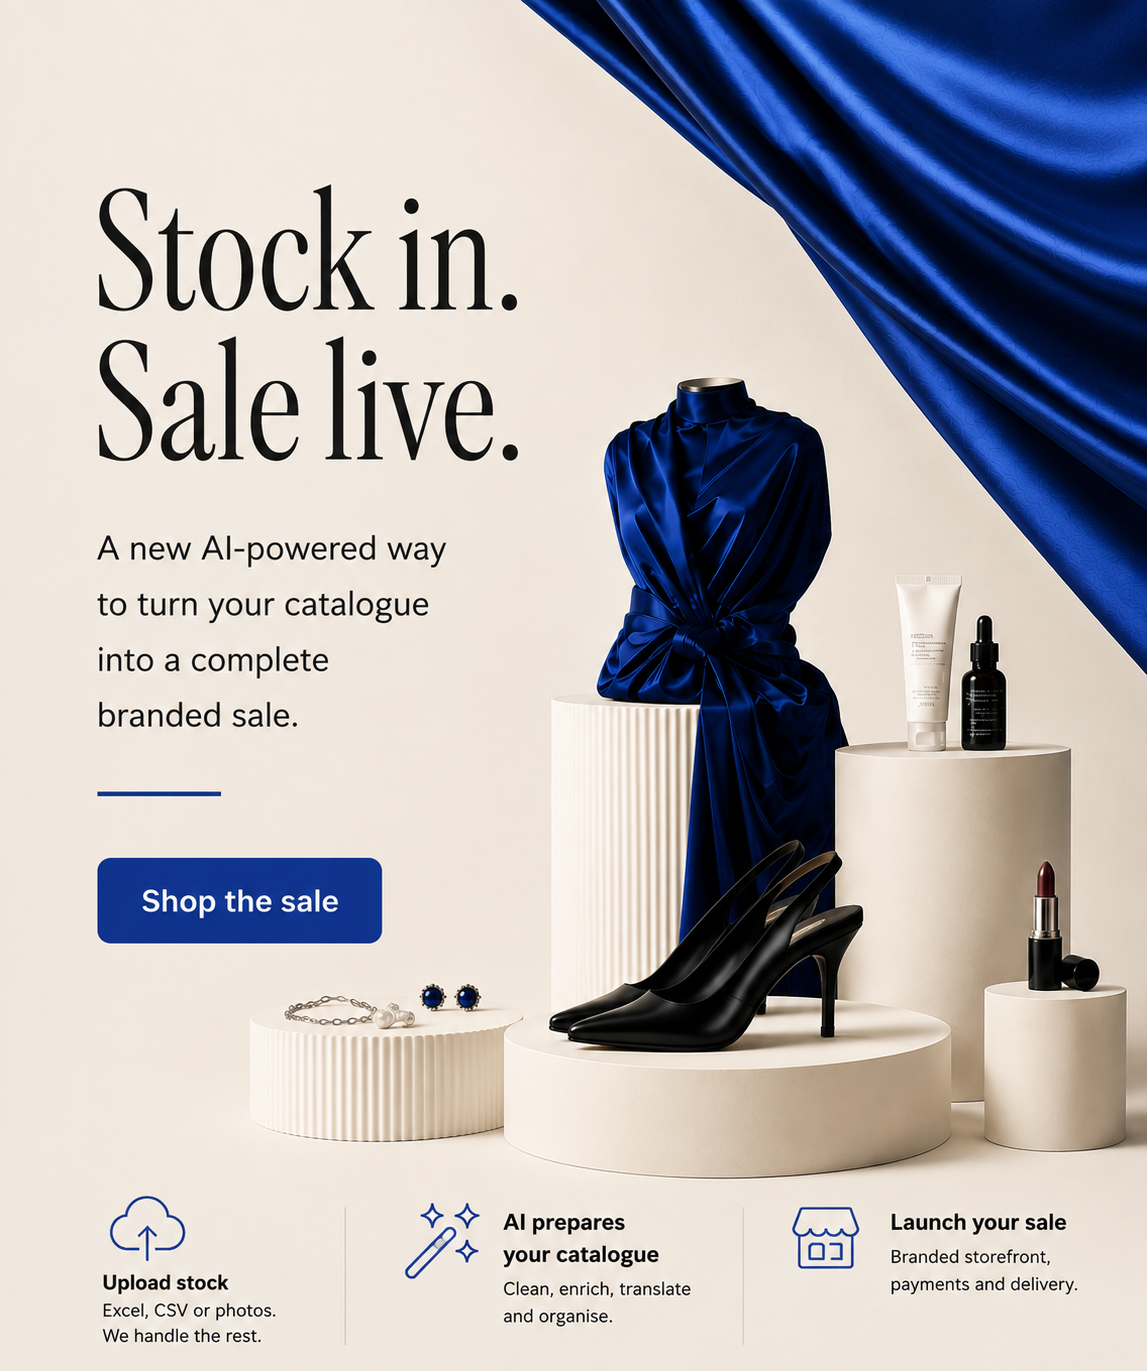
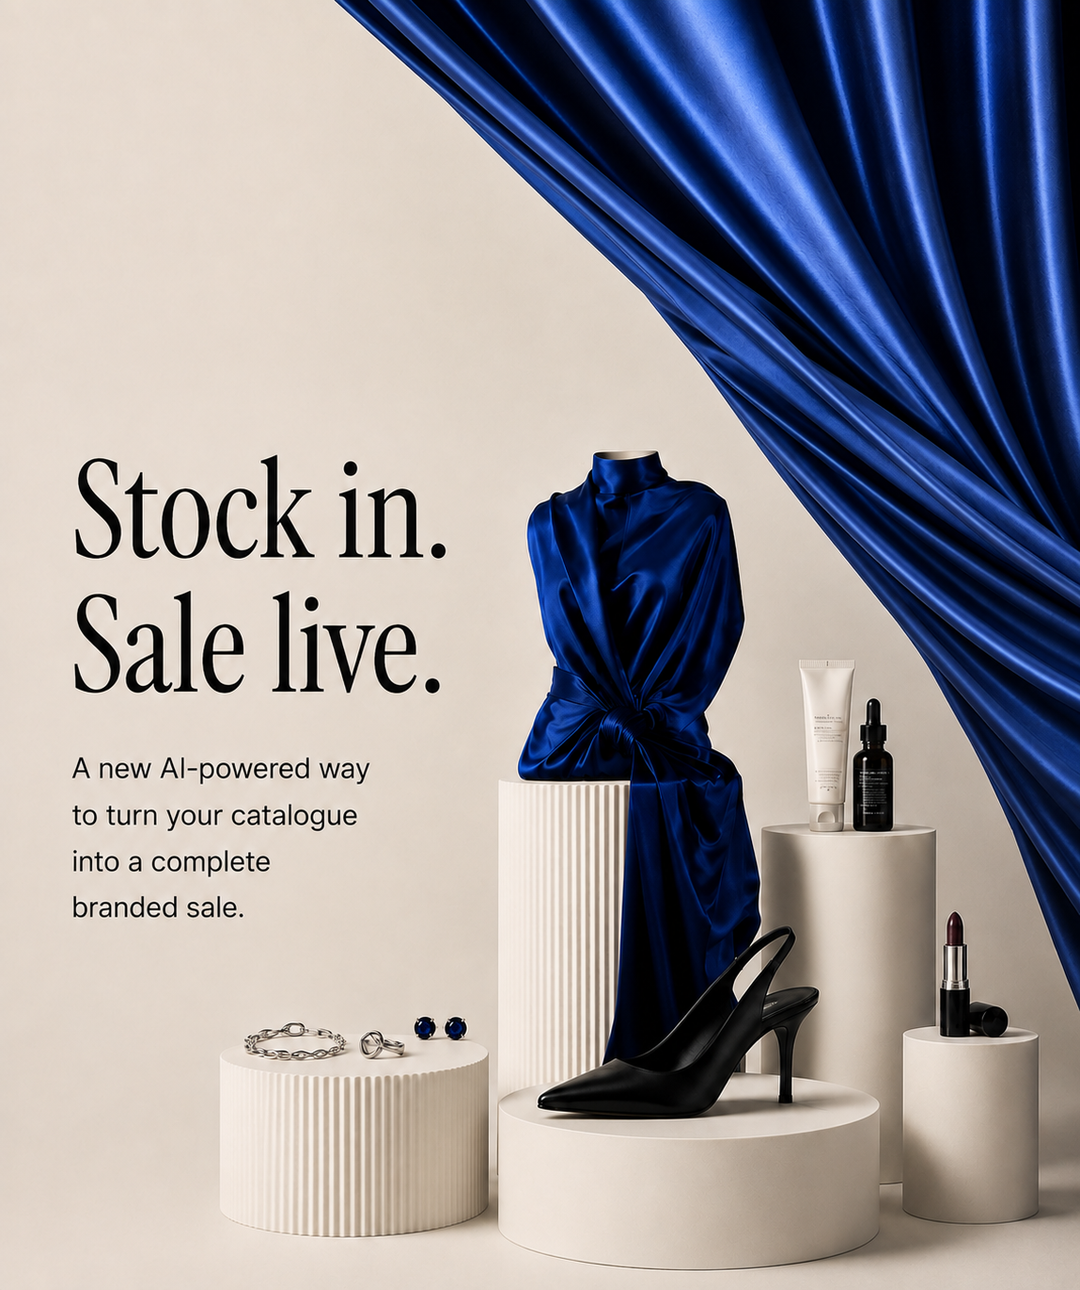
Storefront: use text-only hero images, add a real HTML CTA button
Swapped in Ola's new hero images (tagline baked in, no button/icon row
this time) and replaced the invisible-hotspot hack with an actual
visible, positioned button — no more chasing a baked-in button's exact
pixel position across two different image variants and breakpoints.

diff --git a/apps/storefront/src/App.tsx b/apps/storefront/src/App.tsx
@@ -162,17 +162,15 @@ function HomeView({ brand, products, onAddToBag }: { brand: Brand; products: Pro
            max-width just keeps it from growing absurdly tall on very wide
            monitors; background fills any leftover side margin. */
         .hero-frame { aspect-ratio: 1774 / 887; max-width: 1600px; margin: 0 auto; }
-        @media (max-width: 700px) { .hero-frame { aspect-ratio: 1147 / 1371; max-width: 100%; } }
+        @media (max-width: 700px) { .hero-frame { aspect-ratio: 1080 / 1290; max-width: 100%; } }
 
-        /* Both hero images bake "Shop the sale" into the picture itself —
-           this is just an invisible clickable hotspot over that button,
-           positioned by percentage so it tracks the image at any width. */
-        .hero-shop-cta {
-          left: 5.6%; top: 62.6%; width: 10.4%; height: 4.5%;
-          background: transparent; color: transparent; font-size: 0; padding: 0; border-radius: 0;
-        }
+        /* These hero images are just the tagline baked into the photo — no
+           button. This is a real, visible clickable button positioned by
+           percentage in the blank space below the text, so it tracks the
+           image at any width instead of drifting like a fixed-pixel value would. */
+        .hero-shop-cta { left: 4.5%; top: 68%; }
         @media (max-width: 700px) {
-          .hero-shop-cta { left: 8.5%; top: 62.6%; width: 24.9%; height: 4.7%; }
+          .hero-shop-cta { left: 6.5%; top: auto; bottom: 13%; }
         }
       `}</style>
       <section style={{ background: colors.background }}>
@@ -590,6 +588,11 @@ const styles: Record<string, React.CSSProperties> = {
     position: "absolute",
     zIndex: 1,
     display: "inline-block",
+    padding: "12px 24px",
+    borderRadius: 8,
+    background: colors.navy,
+    color: colors.white,
+    fontSize: 14,
     fontWeight: 600,
     textDecoration: "none",
   },
